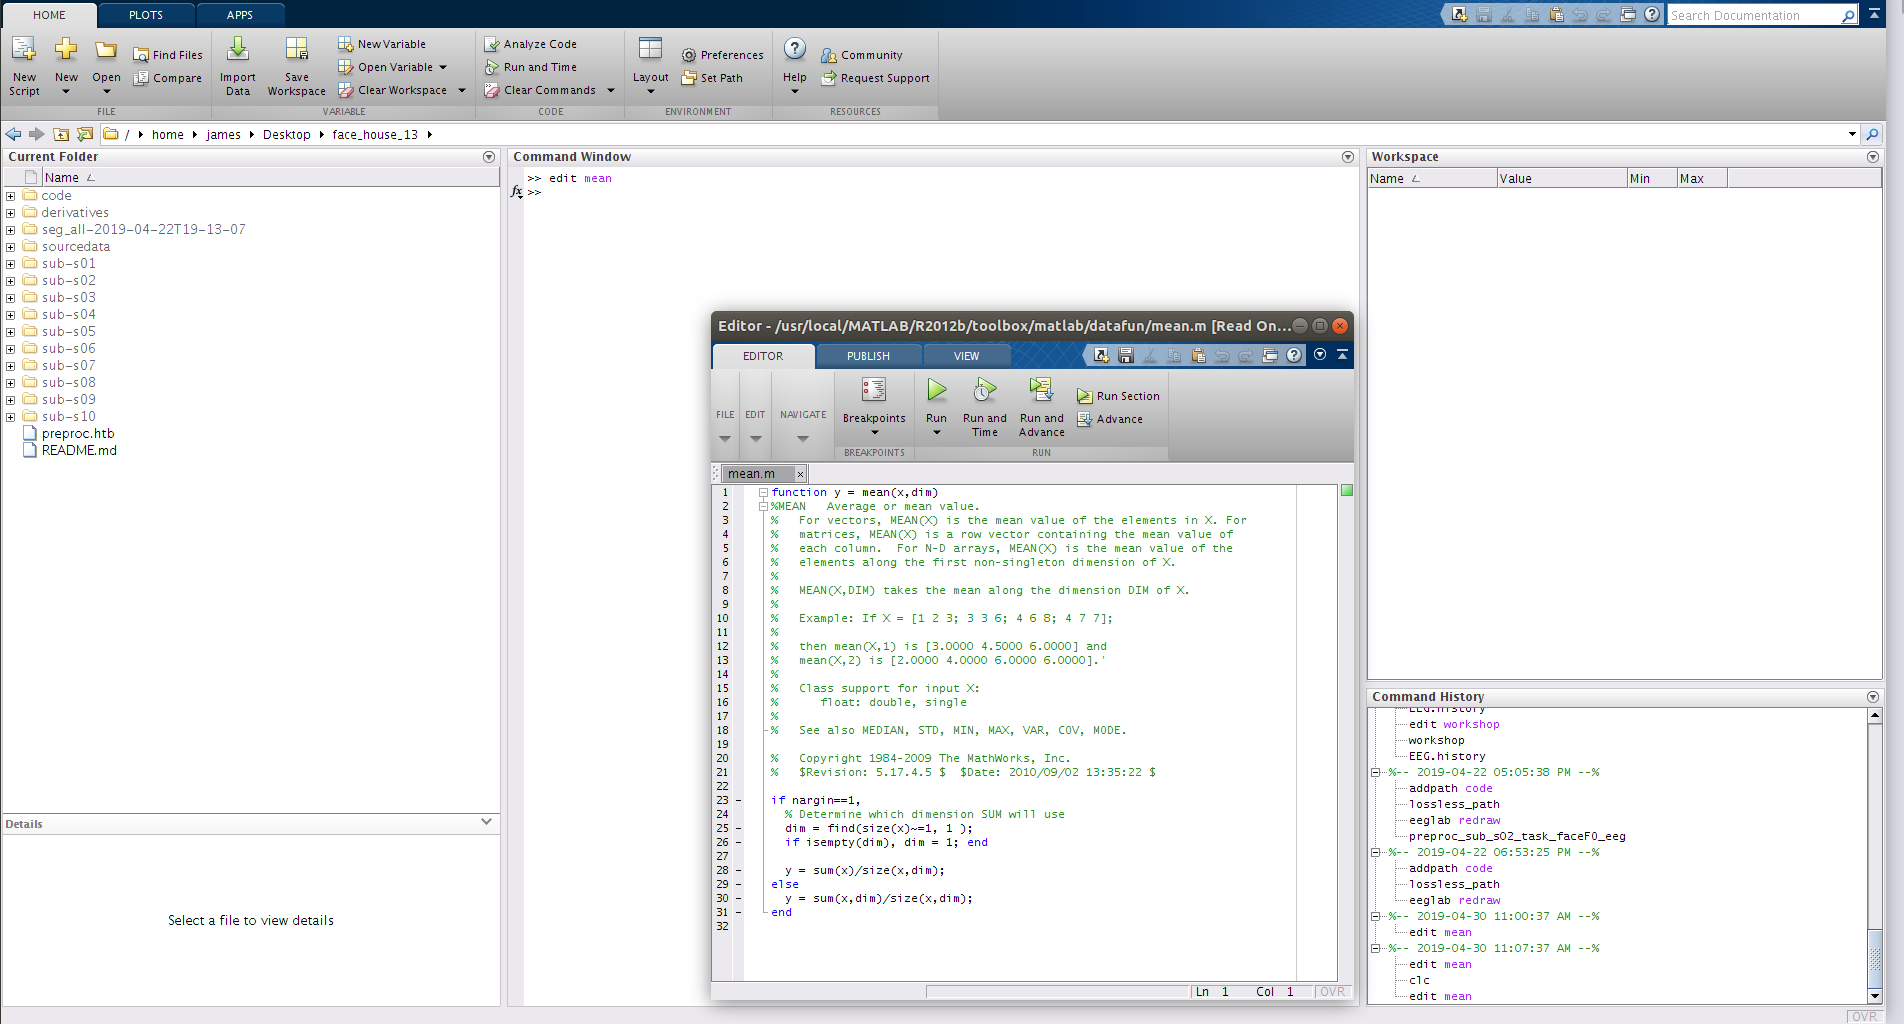
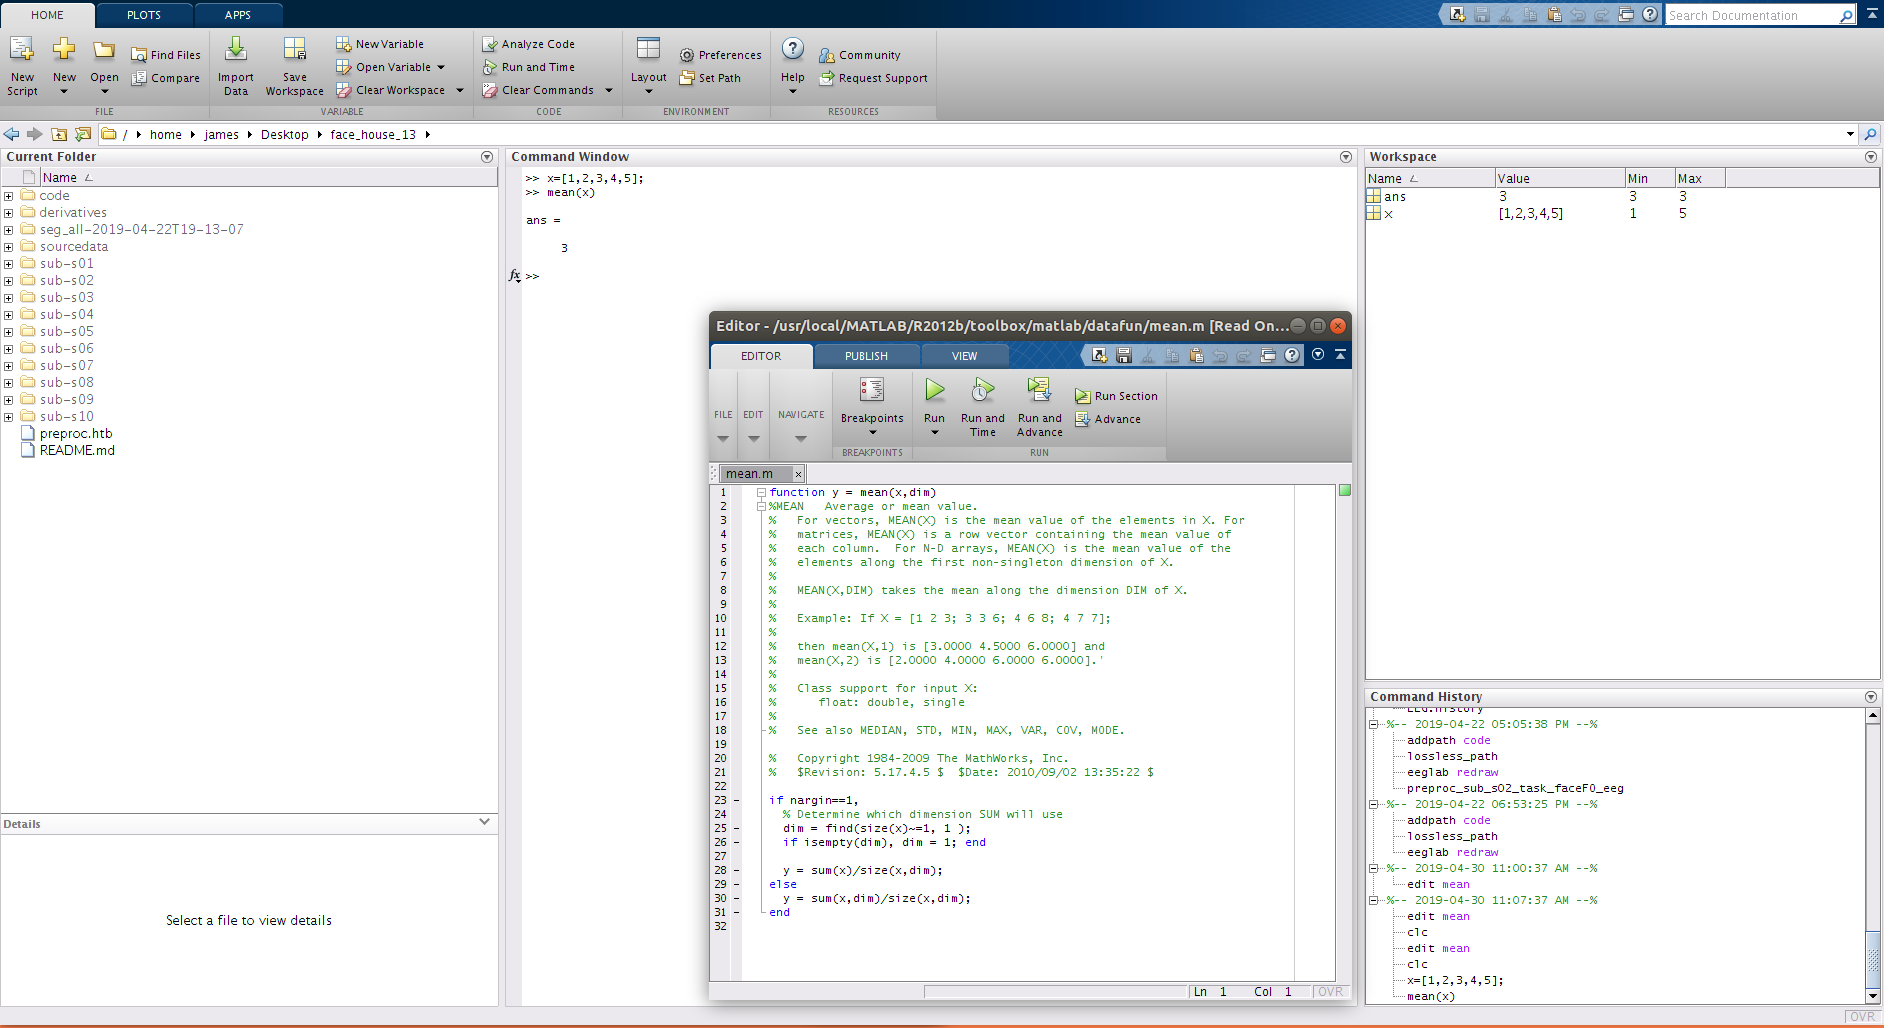
add Matlab IDE and note

diff --git a/episodes/03-directories.md b/episodes/03-directories.md
@@ -21,9 +21,18 @@ For our purposes we can think of Matlab doing two very important things:
 1. it stores information in memory as different kinds of variables
 2. it can perform operations (or functions) on those variable
 
-lets open Matlab and take a look at these capabilities.
+Lets open the Matlab Integrated Development Environment (IDE) and take a look at these capabilities.
 
 ![Matlab Integrated Development Environment]({{ page.root }}/fig/matlabIDE.png)
+
+> ## Note
+> The Matlab IDE is made up of several sections in the Graphical User Interface (GUI). Each of these are important to understand as we move towards interacting with EEG data via EEGLAB.
+1. Command Window: This is where we interact with Matlab using the Command Line Interface (CLI) creating variable and performaing operations on them.
+2. Current FOlder: This is the directory that Matlab if pointing to. This is the part of the file system that Matlab sees an is its starting point for relative paths.
+3. Workspace: this is a summary of the variables that are accessible to the Command Window
+4. Command History: This is the interactive list of operations that have been called from the Command Window.
+5. Editor: This is a text editor with added features for modifying Matlable interpreted text files (*.m files). 
+
 
 {% include links.md %}
 
